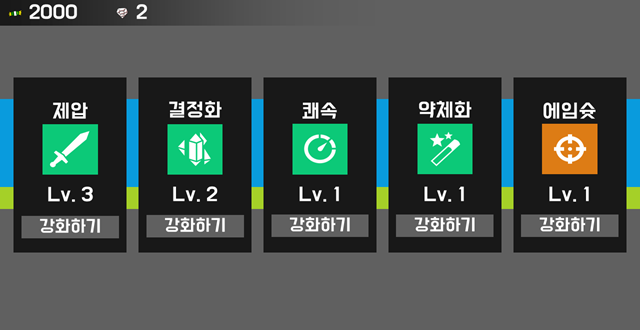
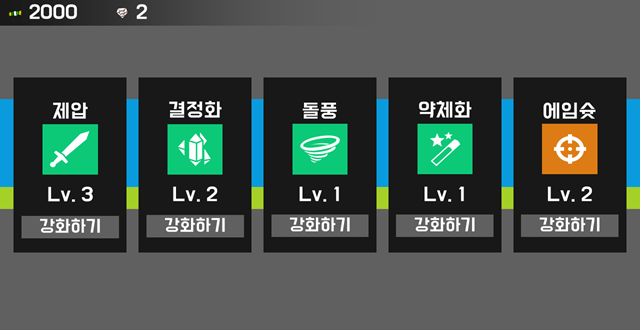
기세와 쾌속 스킬 통합, 몇몇 이미지들 추가로 호스팅 돌림

Changed region(s): [[0.4688, 0.3939, 0.5312, 0.5152], [0.8438, 0.5455, 0.9375, 0.6061], [0.4688, 0.303, 0.5312, 0.3636]]

diff --git a/src/Sections/Gimmick.js b/src/Sections/Gimmick.js
@@ -4,7 +4,7 @@ function Gimmick() {
     return (
         <>
             <div className="Image">
-                <img className="Image-right" src={require('../img/refs/gimmick.png')} alt="Gimmick" />
+                <img src="https://i.ibb.co/ch3LSSF/gimmick.png" alt="gimmick" border="0" />
             </div>
             <div className="Main-text">
                 장애물이 자연스럽게 넘어오는 느낌을 주기 위해 사방에는 <mark>옅은 안개</mark>가<br />
@@ -62,7 +62,7 @@ function Gimmick3() {
     return (
         <>
             <div className="Image">
-                <img className="Image-right" src={require('../img/refs/gimmick1.png')} alt="Gimmick" />
+                <img src="https://i.ibb.co/ChdrHpW/gimmick1.png" alt="gimmick1" border="0" />
             </div>
             <div className="Main-text">
                 3단계 개체가 처음으로 등장한다.<br /><br />
@@ -78,7 +78,7 @@ function Gimmick4() {
     return (
         <>
             <div className="Image">
-                <img className="Image-right" src={require('../img/refs/gimmick2.png')} alt="Gimmick" />
+                <img src="https://i.ibb.co/8sZ2Frd/gimmick2.png" alt="gimmick2" border="0" />
             </div>
             <div className="Main-text">
                 4단계 개체가 처음으로 등장한다.<br /><br />
@@ -93,7 +93,7 @@ function Gimmick5() {
     return (
         <>
             <div className="Image">
-                <img className="Image-right" src={require('../img/refs/gimmick3.png')} alt="Gimmick" />
+                <img src="https://i.ibb.co/mymdfvP/gimmick3.png" alt="gimmick3" border="0" />
             </div>
             <div className="Main-text">
                 5단계 개체와 분열 개체가 처음으로 등장한다.<br /><br />
@@ -108,7 +108,7 @@ function Gimmick6() {
     return (
         <>
             <div className="Image">
-                <img className="Image-right" src={require('../img/refs/gimmickX.png')} alt="Gimmick" />
+                <img src="https://i.ibb.co/xgRZKRT/gimmickX.png" alt="gimmickX" border="0" />
             </div>
             <div className="Main-text">
                 스테이지에는 핀볼을 연상케 하는 여러 오브젝트들이 배치될 예정이다.<br />
@@ -122,7 +122,7 @@ function Gimmick7() {
     return (
         <>
             <div className="Image">
-                <img className="Image-right" src={require('../img/refs/gimmick4.png')} alt="Gimmick" />
+                <img src="https://i.ibb.co/g7yPDmn/gimmick4.png" alt="gimmick4" border="0" />
             </div>
             <div className="Main-text">
                 숲은 때때로 일정 간격으로 몹시 어두워지거나 눈부실 정도로<br />
@@ -152,7 +152,7 @@ function Gimmick9() {
     return (
         <>
             <div className="Image">
-                <img className="Image-right" src={require('../img/refs/gimmick6.png')} alt="Gimmick" />
+                <img src="https://i.ibb.co/gt7Fn05/gimmick6.png" alt="gimmick6" border="0" />
             </div>
             <div className="Main-text">
                 임팩테이블은 길 아래에서 발판을 통해 서서히 올라오며<br />
@@ -182,7 +182,7 @@ function Gimmick11() {
     return (
         <>
             <div className="Image">
-                <img className="Image-right" src={require('../img/refs/gimmick8.png')} alt="Gimmick" />
+                <img src="https://i.ibb.co/JFBk3dw/gimmick8.png" alt="gimmick8" border="0" />
             </div>
             <div className="Main-text">
                 임팩테이블은 성채에 딸린 미끄럼틀을 타고 컨베이어 벨트에<br />

diff --git a/src/Sections/Settings.js b/src/Sections/Settings.js
@@ -29,7 +29,7 @@ function Settings3() {
     return (
         <>
             <div className="Image">
-                <img className="Image-right-square" src={require('../img/pureOrb.png')} alt="Settings" />
+                <img src="https://i.ibb.co/XWyMk6G/pureOrb.png" alt="pureOrb" border="0" />
             </div>
             <div className="Main-text">
                 <mark>파괴</mark>와 <mark>정화</mark>의 능력을 가지고 있는 메인 오브젝트로,<br />
@@ -45,7 +45,7 @@ function Settings4() {
     return (
         <>
             <div className="Image">
-                <img className="Image-right-square" src={require('../img/darkOrb.png')} alt="Settings" />
+                <img src="https://i.ibb.co/F5vpc0s/darkOrb.png" alt="darkOrb" border="0" />
             </div>
             <div className="Main-text">
                 주민들이 악몽을 꾸지 않도록 덩어리 형태로 봉인된 오브젝트로,<br />
@@ -63,7 +63,7 @@ function Settings5() {
     return (
         <>
             <div className="Image">
-                <img className="Image-right-square" src={require('../img/mirror.png')} alt="Settings" />
+                <img src="https://i.ibb.co/g3KfDxn/mirror.png" alt="mirror" border="0" />
             </div>
             <div className="Main-text">
                 세계와 세계를 잇는 통로와도 같은 곳. 평범한 거울이었으나<br />
@@ -91,7 +91,7 @@ function Settings7() {
     return (
         <>
             <div className="Image">
-                <img className="Image-right" src={require('../img/refs/mirrorWorld.png')} alt="Settings" />
+                <img src="https://i.ibb.co/dtJJy5T/mirror-World.png" alt="mirror-World" border="0" />
             </div>
             <div className="Main-text">
                 현혹의 거울 속에 자리잡은 세계로 이빌리아 왕국의 잔해와도 같은 곳.<br />

diff --git a/src/Sections/System.js b/src/Sections/System.js
@@ -92,11 +92,10 @@ function System6() {
                     <mark>//int damage0은 레벨 0 기준 고정 피해</mark><br />
                     (hp - damage0) * (1 + (level * 0.2));
                 </div>
-                기세: 레벨 상승시마다 <mark>퓨어 오브의 화력 (force)이 증가</mark>한다.<br />
+                돌풍: 레벨 상승시마다 <mark>화력 (force)과 게이지 충전 속도가 증가</mark>한다.<br />
                 약체화: 레벨 상승시마다 <mark>임팩테이블의 최소 충격량 값 (limit)이 감소</mark>한다.<br />
                 결정화: 레벨 상승시마다 <mark>HP가 1씩 증가하고 퓨어 오브의<br />
                 크기 (scale)와 범위가 증가</mark>한다. (유일하게 최대 레벨이 5이다.)<br />
-                쾌속: 레벨 상승시마다 <mark>게이지가 차오르는 속도가 증가</mark>한다.<br />
             </div>
         </>
     );
